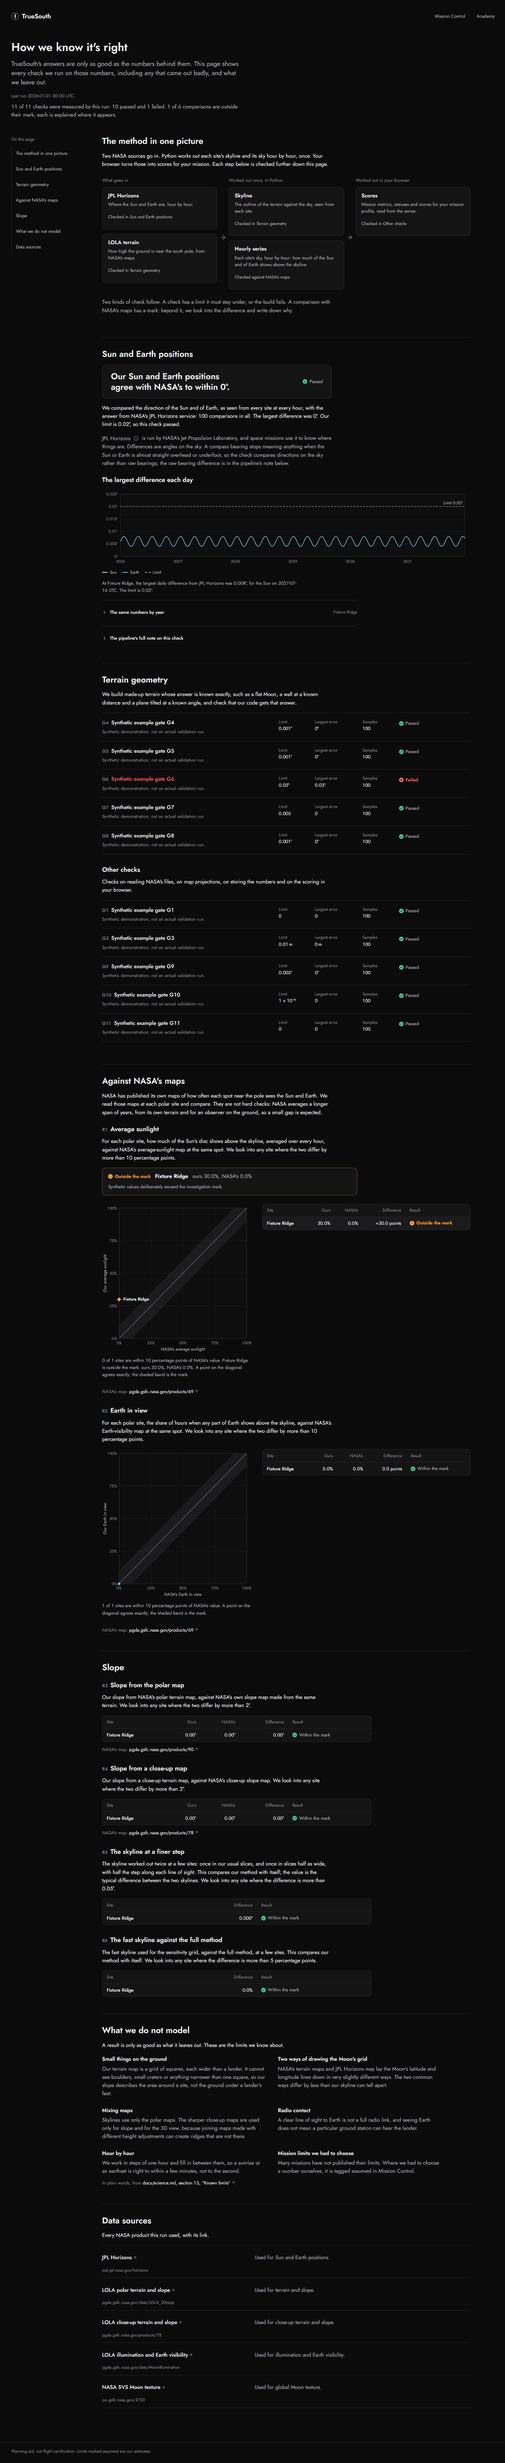
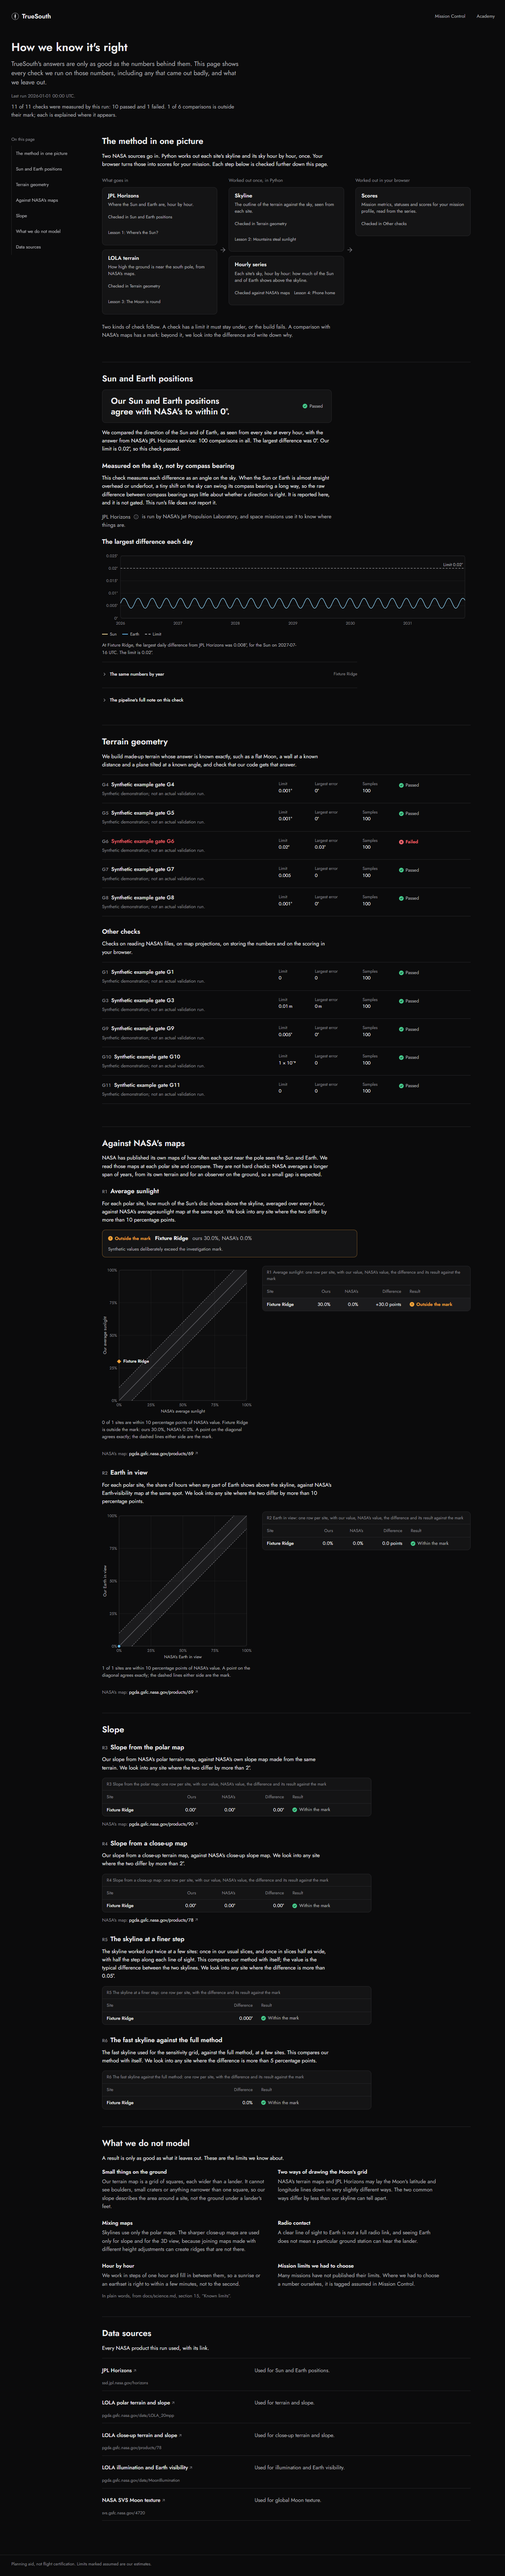
A8 review: grammar of the summary, retaken screenshots, DEVLOG notes

diff --git a/web/src/features/validation/index.tsx b/web/src/features/validation/index.tsx
@@ -128,7 +128,7 @@ function RunLine({ report }: { report: CheckedReport }) {
       ? comparisons.incomplete === 0
         ? ` All ${comparisons.total} comparisons are within their mark.`
         : ` ${within} of ${comparisons.total} comparisons are within their mark.`
-      : ` ${comparisons.outside} of ${comparisons.total} comparisons are outside their mark; each is explained where it appears.`) +
+      : ` ${comparisons.outside} of ${comparisons.total} comparisons ${comparisons.outside === 1 ? "is" : "are"} outside their mark; each is explained where it appears.`) +
     (comparisons.incomplete > 0
       ? ` ${comparisons.incomplete} comparison ${comparisons.incomplete === 1 ? "record is" : "records are"} incomplete in this build.`
       : "");

diff --git a/DEVLOG.md b/DEVLOG.md
@@ -723,7 +723,7 @@ Every one of the 65 proposed keys has a definition, source arrays, availability,
 #### 2026-11-13 · A8 · Validation page, "How we know it's right"
 - **Who:** Claude Code agent, for the orchestrator
 - **AI use:** Claude Code, claude-opus-5-5 — wrote the page at `/validation`, its model,
-  number formatting, the two hand-built SVG charts and 24 vitest tests — checked by the
+  number formatting, the two hand-built SVG charts and the vitest tests — checked by the
   agent with tests, typecheck and build, the impeccable detector (0 findings), and by eye
   at 1440 × 900, 1024 × 768 and 390 × 844 on the real data and on `VITE_DATA=fixtures`
   (no console errors, no sideways page scroll, every control at least 44 px, keyboard
@@ -741,14 +741,31 @@ Every one of the 65 proposed keys has a definition, source arrays, availability,
   - Sections 3 and 5 also show every gate and comparison the brief did not place: G1, G3,
     G9, G10 and G11 under "Other checks"; R5 (and R6 on the fixture) under Slope.
   - Gaps in the real file: no R4 (the page says so), the raw compass-azimuth difference
-    of decision 0011 exists only inside G2's `detail` text (shown verbatim behind a
-    disclosure), and in-mark R1 to R3 `explanation` fields hold pixel notes, not
-    explanations (shown behind "Notes from the pipeline").
-  - No method box links to the Academy: lessons 1 to 8 are not playable yet.
-    `isPlayableLesson` in `Method.tsx` turns the links on when they are.
-  - The section 6 citation links to the private GitHub repo; it opens only when signed in.
+    of decision 0011 exists only inside G2's `detail` text, and in-mark R1 to R3
+    `explanation` fields hold pixel notes, not explanations (shown behind "Notes from the
+    pipeline").
   - The fixture already has a failing comparison (R1) and a failing gate (G6). The test
     for an outside self-comparison is built from the fixture's R5 row.
+  - Review fixes (Codex review of PR #79), each its own commit:
+    1. A largest difference, an upper bound or a "within X" is rounded up, a lower bound
+       down, a reading to nearest (`format.ts`), and a shown value keeps its side of its
+       limit or mark. The real headline now reads "within 0.0061°", not "0.006°". A test
+       checks every gate and comparison in both data files against its printed result.
+    2. `check.ts` checks every field the page reads. An incomplete gate or row reads
+       "This check's record is incomplete in this build" in its place and is never
+       counted as passed; no NaN, undefined, null or Infinity in any tested case.
+       `parseValidation` in `web/src/data/` still rejects a whole file whose gate has a
+       result but no measurement, so that case reads "not run" in the app.
+    3. G2's raw-bearing sentences are quoted from `detail` in the open under the headline.
+       The pipeline could supply them as fields: `raw_azimuth_max_deg`,
+       `raw_azimuth_max_at` (site, body, UTC), `raw_azimuth_hours_over_limit`,
+       `sky_max_deg` and `elevation_max_deg`.
+    4. Method boxes link to lessons 1 to 4 by catalog title; lessons 5 to 8 get no link.
+       The feature imports only `academy/catalog.ts`. No link points into the private repo.
+    5. Every data table has a caption; every header cell a scope.
+    6. Contrast: CAUTION amber text 8.83:1 on the card, 8.25:1 on the highlighted row;
+       the diagonal 5.78:1 on the plot. The mark's shaded band was 1.12:1, so its edges
+       are now dashed Ink 3 lines (5.78:1 on the plot, 5.15:1 over the band).
 
 #### 2026-11-13 · A5b · Lessons 1 to 4 reworded to the real numbers
 - **Who:** Claude Code agent, for the orchestrator
